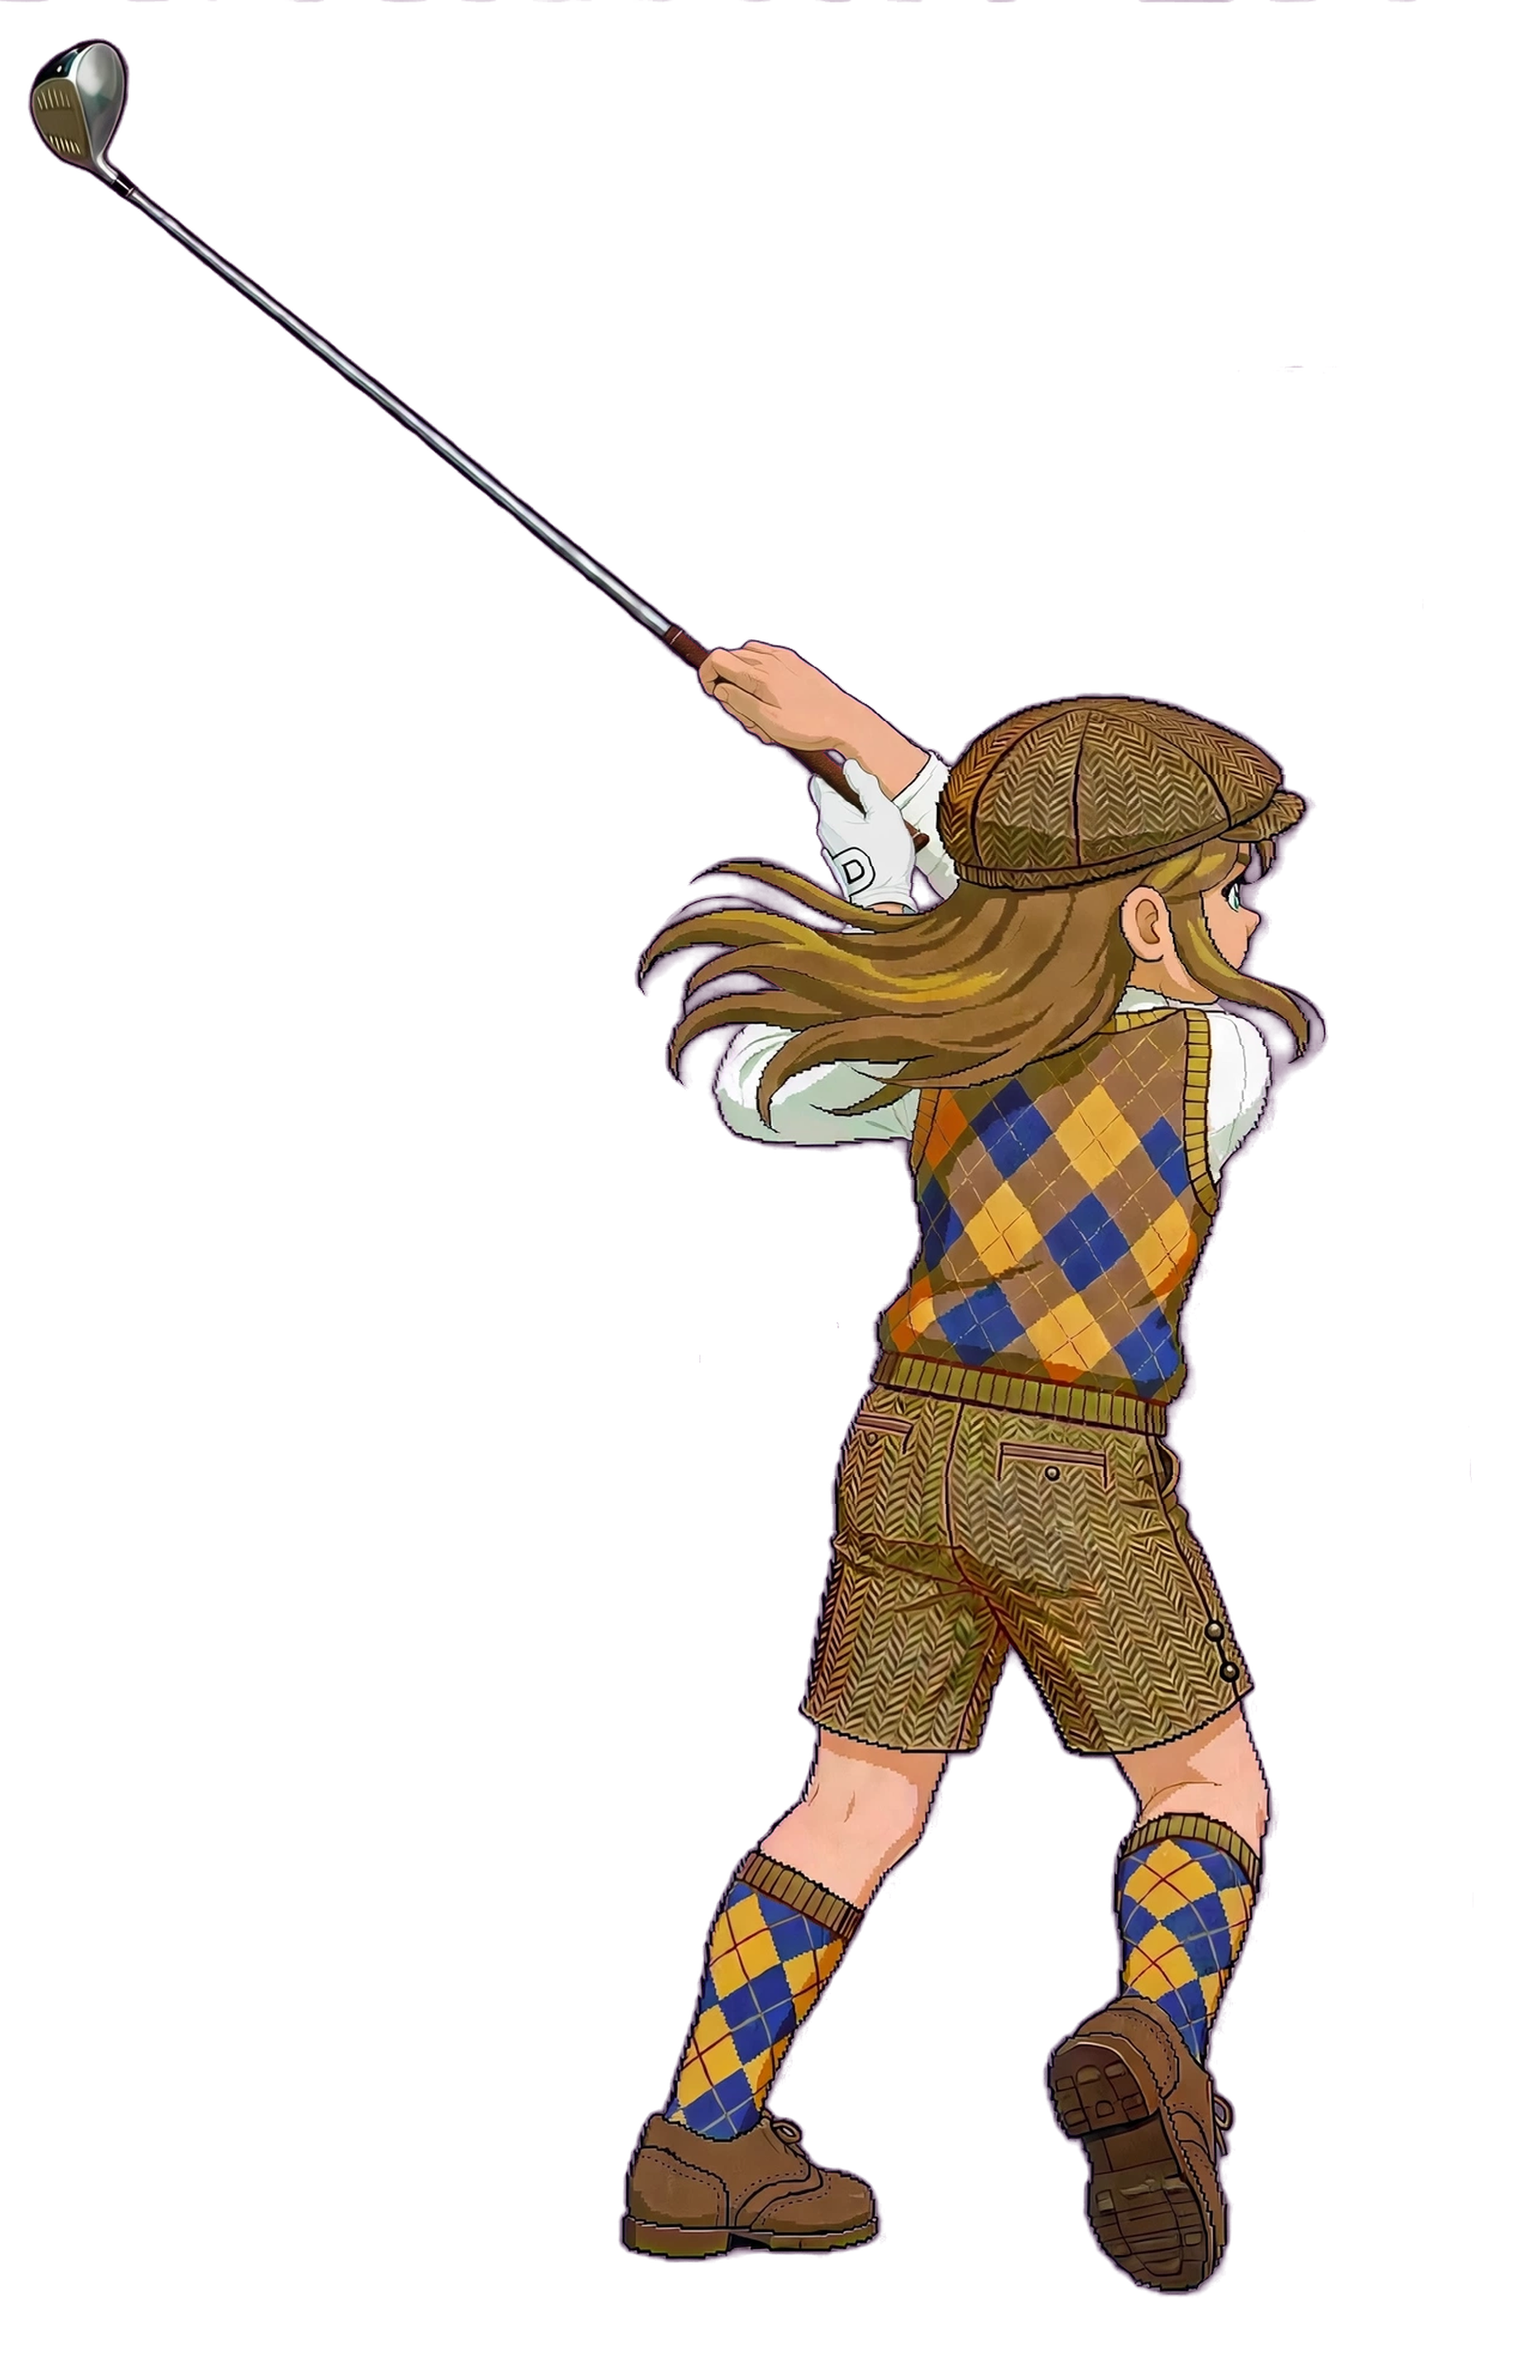
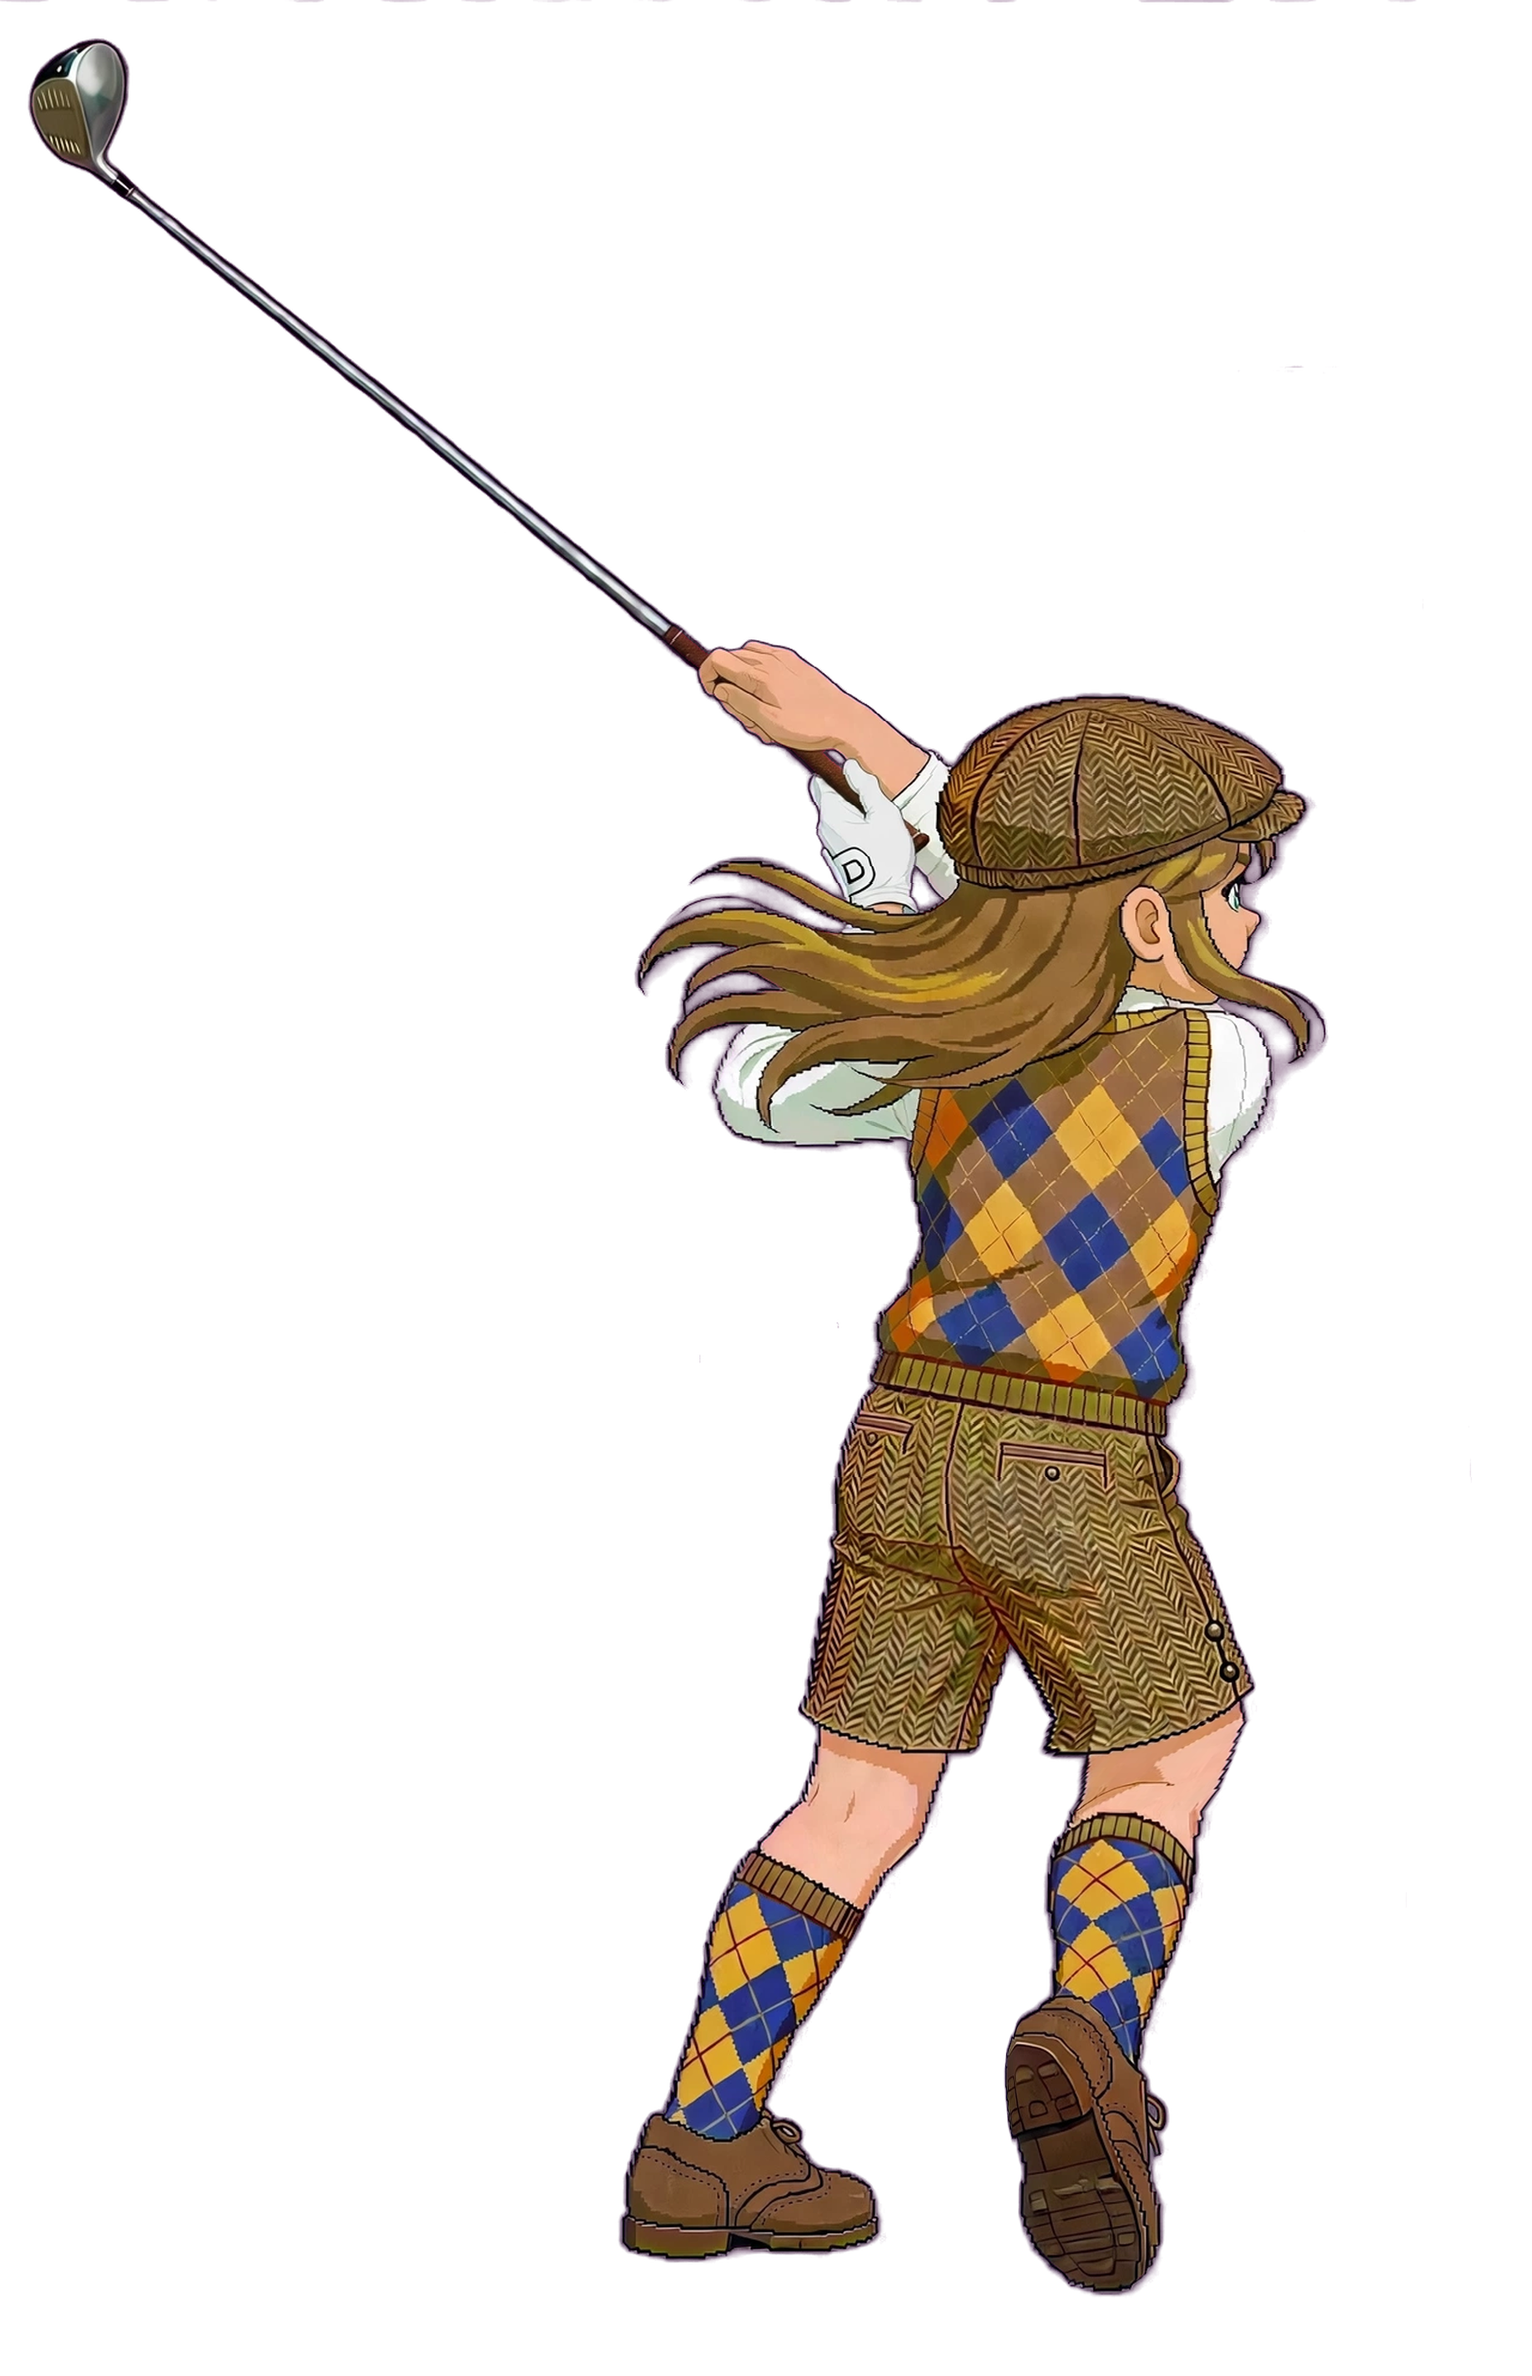
v0.11.6 フォローの右脚を局所ワープで軸脚側へ寄せる

Changed region(s): [[0.652, 0.7109, 0.8382, 0.9891]]

diff --git a/BUILD-NOTES.md b/BUILD-NOTES.md
@@ -187,6 +187,11 @@
 - v0.11.4 の傾きでは足りず、「脚を軸に」もう少し傾けた。ピクセル編集のみ（v0.11.4 の状態は assets-src/swing_follow_before_v0115.png に保管）：軸を脚の付け根（y=1850）に下げ、そこから上を頭頂（y=750）で最大 +34px まで漸進的に左へずらすシアーを追加。脚・足元は不動。クラブヘッドはフレーム内に収まり、シャフトの接続も維持。
 - 検証：前後比較ストリップとスクリーンキャストのフォロー表示で確認。エラー0件。
 
+## 変更履歴：フォローの右脚を局所ワープで軸脚側へ寄せる（v0.11.6、2026-11-22、ユーザー指示・案A採用）
+- 「右脚が前に突っ込むように見える」との指摘。拡大診断：右脚は太ももが斜め前に出て膝が最前面に突き出していた（本来のフォローは右膝が下向きに軸脚へ寄り、体の後ろでつま先立ちに収まる）。
+- 対応はピクセル編集のみ（v0.11.5 の状態は assets-src/swing_follow_before_v0116.png に保管）：右脚だけに局所ワープ。y=2060（ショーツ裾の下）で 0、膝 y=2170 で最大 −80px、それ以下（すね・靴）は −80 のまま平行移動。x ゲート 1175→1225 の smoothstep で軸脚（x≦1169）には触れていない。ショーツ・靴の形・足裏の見え方は不変。
+- 検証：脚まわり／全身の前後比較で膝の収まりを確認し、スクリーンキャストのフォロー表示でも問題なし。エラー0件。
+
 ## 公開時に必要なファイル
 - `index.html`、`golfer.png`、`flag.png`、`swing_address.png`、`swing_takeback.png`、`swing_back.png`、`swing_down.png`、`swing_impact.png`、`swing_follow.png`、`swing_finish.png` の10点に、v0.10 から `icon-512.png`、`icon-192.png`、`icon-180.png`、`favicon-32.png`、`manifest.webmanifest`、`version.txt` と `logo.jpg`（v0.11〜）を加えた点（公開リポジトリ ukos/nono-field-golf-playground のルートに同列で配置。index.html は相対パスで参照）。
 - `shots/` と本メモは公開不要（ソースリポジトリ ukos/nono-field-golf 側に置く想定）。
